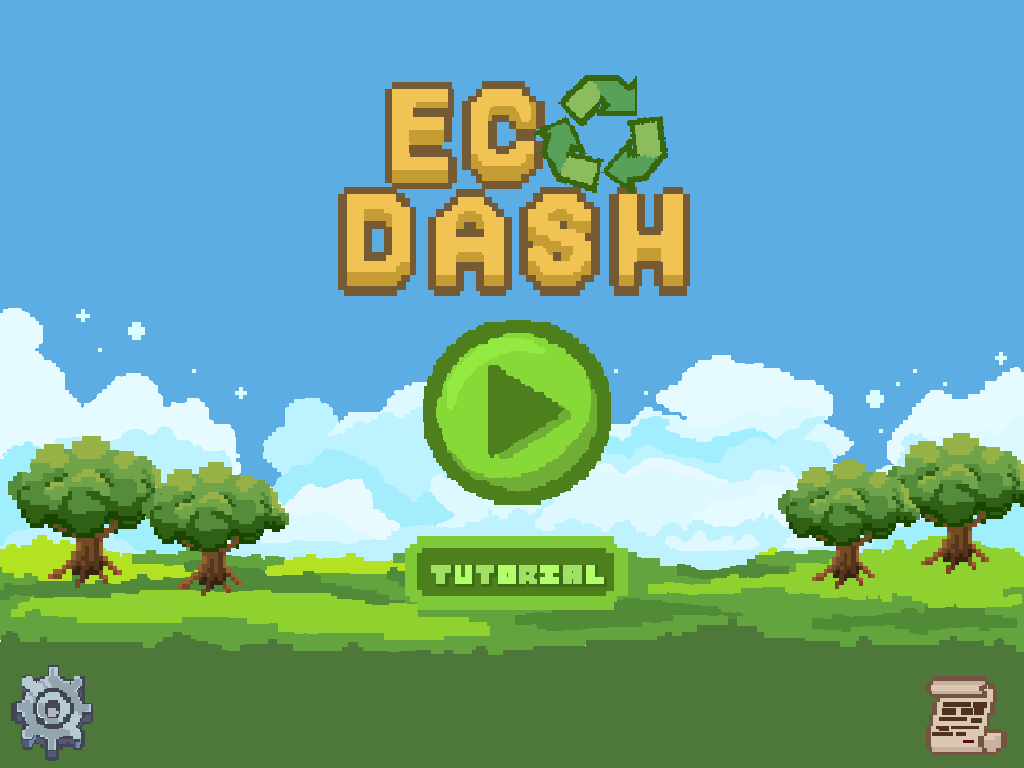
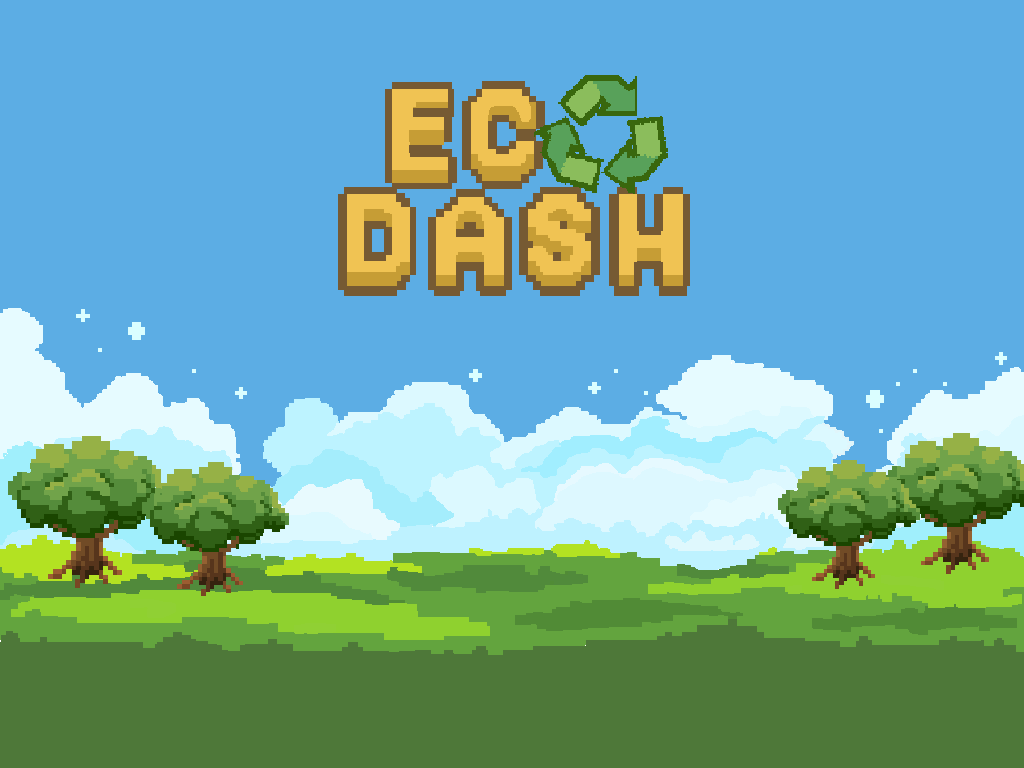
Main final en teoria

diff --git a/proyecto.py b/proyecto.py
@@ -17,8 +17,8 @@ pygame.display.set_caption('Trash Hunters')
 #Imagen de fondo
 background = pygame.image.load("background1.png").convert()
 imagen_redimensionada = pygame.transform.scale(background, (1024, 768))
-start_img = pygame.image.load("start.png")
-start_hover = pygame.image.load("starth.png")
+start_img = pygame.image.load("start1.png")
+start_hover = pygame.image.load("start1h.png")
 tutorial = pygame.image.load("tutorial.png")
 tutorial_hover = pygame.image.load("tutorialh.png")
 configuracion = pygame.image.load("configuracion.png")
@@ -41,7 +41,7 @@ class Button():
         else:
             screen.blit(self.image, (self.rect.x, self.rect.y))
 
-start_Button = Button(613, 512, start_img, start_hover)
+start_Button = Button(403, 315, start_img, start_hover)
 
 # Otro boton
 class Button2():
@@ -57,7 +57,7 @@ class Button2():
         else:
             screen.blit(self.image, (self.rect.x, self.rect.y))
 
-start_Button2 = Button2(0, 0, tutorial, tutorial_hover)
+start_Button2 = Button2(404, 537, tutorial, tutorial_hover)
 
 # Otro boton
 class Button3():
@@ -73,7 +73,7 @@ class Button3():
         else:
             screen.blit(self.image, (self.rect.x, self.rect.y))
 
-start_Button3 = Button3(0, 0, configuracion, configuracion_hover)
+start_Button3 = Button3(10, 666, configuracion, configuracion_hover)
 
 # Otro boton
 class Button4():
@@ -89,7 +89,7 @@ class Button4():
         else:
             screen.blit(self.image, (self.rect.x, self.rect.y))
 
-start_Button4 = Button4(0, 0, creditos, creditos_hover)
+start_Button4 = Button4(925, 676, creditos, creditos_hover)
 
 
 # Crear el bucle del juego

diff --git a/select_character.py b/select_character.py
@@ -1,0 +1,23 @@
+# Para iniciar cualquier proyecto en pygame 
+import pygame
+import sys
+pygame.init()
+
+screen = pygame.display.set_mode((1024, 768))
+pygame.display.set_caption('Trash Hunters')
+
+background = pygame.image.load("select_character_background.png")
+selector = pygame.image.load("selector_character.png")
+selector_hover = pygame.image.load("selector_characterh.png")
+nextinterface = pygame.image.load("next_button.png")
+nextinterface_hover = pygame.image.load("next_buttonh.png")
+
+while True:
+    for event in pygame.event.get():
+        if event.type == pygame.QUIT:
+            sys.exit()
+
+    screen.blit(background, (0, 0))
+
+    # Actualizar pantalla
+    pygame.display.flip()
